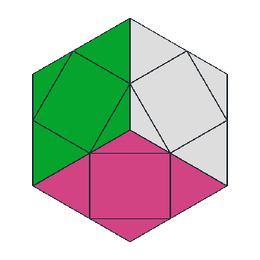
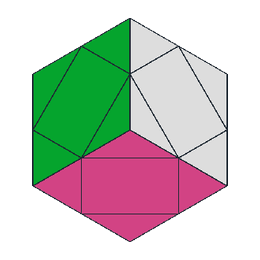
Calibrate four dodecahedral models against Fcubes
Align the regular dodecahedron shells and rhombic layer cuts with the local geometry reference. Coalesce coincident cut vertices and cover geometry, entry and replay.

Changed region(s): [[0.1231, 0.1846, 0.8923, 0.8615]]

diff --git a/cube/solid_shape_mods.py b/cube/solid_shape_mods.py
@@ -1,7 +1,7 @@
 """Cube mechanisms carrying octahedral and dodecahedral rigid shells."""
 from functools import lru_cache
 import math
-from cube.polyhedral import CUBE,OCTA,DODECA,EDGE_AXES,body,scale,dot
+from cube.polyhedral import CUBE,OCTA,DODECA,EDGE_AXES,PHI,body,rotate,scale,dot
 from cube.shape_cube import AxisCube,_cut_shell
 
 KINDS=frozenset(('trajber','trajber_4','dodecahedron_2','dodecahedron_3',
@@ -9,6 +9,12 @@ KINDS=frozenset(('trajber','trajber_4','dodecahedron_2','dodecahedron_3',
 COLOURS=((.98,.98,.98,1),(.02,.65,.18,1),(.9,.05,.06,1),(.51,.12,.73,1),
          (.97,.31,.61,1),(1,.47,.02,1),(.05,.2,.91,1),(.62,.86,.12,1),
          (1,.85,.02,1),(.02,.73,.83,1),(.58,.6,.64,1),(.2,.08,.47,1))
+
+# The cubic axes pass through opposite edge midpoints on these two shells.
+# Rotate the existing face order as a unit so adjacent colours stay adjacent.
+DODECA_CUBIC = tuple(rotate(normal, (1., 0., 0.), -math.atan(1/PHI)) for normal in DODECA)
+# Fcubes uses a circumradius of 0.7 and three-layer cuts at +/-1/6.
+DODECA_REFERENCE_INRADIUS = .7 * math.sin((math.atan(2) + math.asin(2/3)) / 2)
 
 
 def default_colors(kind):
@@ -33,12 +39,6 @@ def faces_for(kind,home,n):
     if kind in ('rhombic_3','rhombic_4','rhombic_mask_4'):
         if n != (3 if kind=='rhombic_3' else 4):
             raise ValueError('Wrong rhombic shell order')
-        # The four-valent vertices sit on the six cubic mechanism axes.
-        # A rhombic face's large middle patch is an EDGE of that mechanism.
-        # Place the cuts through the rhombus edges, retaining the photographed
-        # large middle patches and small triangular ends.
-        a=math.sqrt(2)-1
-        core_half=3*a if n==3 else 2*a
         normals=EDGE_AXES
         if kind=='rhombic_mask_4':
             # Truncate the six four-valent tips. These gold squares are the
@@ -48,14 +48,23 @@ def faces_for(kind,home,n):
             # Extending the cap to 1.05 introduces extra coloured wing facets
             # (eight fields per side instead of the photographed four).
             normals=EDGE_AXES+CUBE
+            core_half=2*(math.sqrt(2)-1)
+        else:
+            # The axial tips are at sqrt(2) in inradius units. The cubic
+            # cuts lie at a quarter of that radius in order three, and at
+            # a third (plus the centre plane) in order four.
+            core_half=math.sqrt(2) * (3/4 if n==3 else 2/3)
         polygons=[(list(face),i if i<12 else 12) for i,face in enumerate(body(normals))]
         return _cut_shell(polygons,home,n,core_half)
-    normals=OCTA if kind.startswith('trajber') else DODECA
-    if kind.startswith('trajber') and n!=4:
-        raise ValueError('This Trajber model requires a four-layer mechanism')
-    # Four mechanical layers, with cuts at -sqrt(3)/4, 0, +sqrt(3)/4.
-    # The central cut is a real movable boundary, not a drawn extra seam.
-    core_half=math.sqrt(3)/2 if kind.startswith('trajber') else 1.
+    if kind.startswith('trajber'):
+        if n!=4:
+            raise ValueError('This Trajber model requires a four-layer mechanism')
+        # Four mechanical layers, with cuts at -sqrt(3)/4, 0, +sqrt(3)/4.
+        normals=OCTA
+        core_half=math.sqrt(3)/2
+    else:
+        normals=DODECA_CUBIC
+        core_half=.5/DODECA_REFERENCE_INRADIUS
     return _cut_shell([(list(face),i) for i,face in enumerate(body(normals))],home,n,core_half)
 
 

diff --git a/tests/test_lanlan_photo_models.py b/tests/test_lanlan_photo_models.py
@@ -4,6 +4,7 @@ import json
 import pytest
 
 SOLIDS=(('rhombic_3',3),('rhombic_4',4),('rhombic_mask_4',4),('caneball_4',4))
+DODECAHEDRONS=(('dodecahedron_2',2),('dodecahedron_3',3))
 POLYS=('skewb_rhombic','jewel_fto','rua','helicopter_14')
 
 
@@ -69,6 +70,38 @@ def test_rhombic_shell_has_exact_core_and_real_closed_surfaces(kind,n):
         assert visible(c)==before
 
 
+@pytest.mark.parametrize('kind,n,cut_ratio',(('rhombic_3',3,1/4),('rhombic_4',4,1/3)))
+def test_rhombic_cut_distance_relative_to_axial_tip(kind,n,cut_ratio):
+    from cube.solid_shape_mods import FACTORIES,faces_for
+
+    fields=[(polygon,color) for home in FACTORIES[kind].solved(n=n).positions
+            for polygon,color in faces_for(kind,home,n)]
+    tip=max(abs(vertex[0]) for polygon,color in fields if color>=0 for vertex in polygon)
+    cut_planes={round(polygon[0][0]/tip,8) for polygon,color in fields if color<0
+                and all(abs(p[0]-polygon[0][0])<1e-8 for p in polygon)}
+    expected={round(-cut_ratio,8),round(cut_ratio,8)}
+    if n==4:
+        expected.add(0.)
+    assert cut_planes==expected
+
+
+@pytest.mark.parametrize('kind,n',DODECAHEDRONS)
+def test_dodecahedron_seams_are_symmetric_about_the_cubic_axes(kind,n):
+    from math import dist
+    from cube.solid_shape_mods import FACTORIES,faces_for
+
+    fields=[(polygon,color) for home in FACTORIES[kind].solved(n=n).positions
+            for polygon,color in faces_for(kind,home,n)]
+    painted=[(polygon,color) for polygon,color in fields if color>=0]
+    assert Counter(color for _,color in painted)=={i:2 if n==2 else 6 for i in range(12)}
+    assert Counter(len(polygon) for polygon,_ in painted)==({4:24} if n==2 else {4:60,5:12})
+    radius=max(dist(vertex,(0.,0.,0.)) for polygon,_ in painted for vertex in polygon)
+    axis_cut_planes={round(polygon[0][0]/radius,8) for polygon,color in fields if color<0
+                     and all(abs(p[0]-polygon[0][0])<1e-8 for p in polygon)}
+    ratio=round((1/6)/.7,8)
+    assert axis_cut_planes==({0.} if n==2 else {-ratio,ratio})
+
+
 @pytest.mark.parametrize('kind,counts',(
     ('skewb_rhombic',(14,48,4,120)),('jewel_fto',(42,54,8,120)),
     ('rua',(38,72,12,180)),('helicopter_14',(32,32,12,180))))
@@ -114,7 +147,7 @@ def test_four_layer_mask_matches_the_photographed_strips_and_gold_squares():
     assert by_piece=={1:48,3:8}
 
 
-@pytest.mark.parametrize('kind,n',SOLIDS+tuple((k,3) for k in POLYS))
+@pytest.mark.parametrize('kind,n',SOLIDS+DODECAHEDRONS+tuple((k,3) for k in POLYS))
 def test_new_model_checkpoint_does_not_change_entered_state(kind,n):
     from demo.expanded_support import make_cube,scramble,signature
     from app.session import encode,decode
@@ -127,7 +160,7 @@ def test_new_model_checkpoint_does_not_change_entered_state(kind,n):
 
 
 @pytest.mark.parametrize('length',(30,100))
-@pytest.mark.parametrize('kind,n',SOLIDS+tuple((k,3) for k in POLYS))
+@pytest.mark.parametrize('kind,n',SOLIDS+DODECAHEDRONS+tuple((k,3) for k in POLYS))
 def test_observed_scramble_reentry_solves_without_a_scramble_log(kind,n,length):
     from demo.expanded_support import make_cube,scramble
     from services.solve_service import SolveService,CancelToken

diff --git a/cube/mastermorphix.py b/cube/mastermorphix.py
@@ -106,7 +106,12 @@ def _clip(polygons, axis, sign, bound):
         if len(unique) >= 3:
             output.append((unique, color))
             cuts.extend(p for p in unique if abs(sign*p[axis]-bound) < 1e-8)
-    unique = {tuple(round(x, 9) for x in p) for p in cuts}
+    # Adjacent faces can reach the same cap vertex by different clipping
+    # paths. Coalesce them with the same tolerance as the face vertices.
+    unique = []
+    for point in sorted({tuple(round(x, 9) for x in p) for p in cuts}):
+        if all(math.dist(point, previous) >= 1e-8 for previous in unique):
+            unique.append(point)
     if len(unique) >= 3:
         center = tuple(sum(p[i] for p in unique)/len(unique) for i in range(3))
         normal = tuple(sign if i == axis else 0 for i in range(3))
